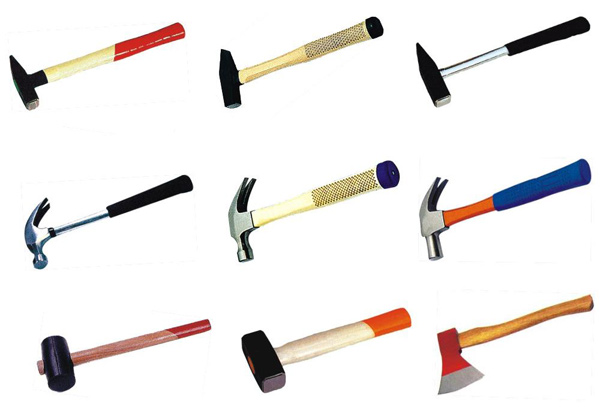
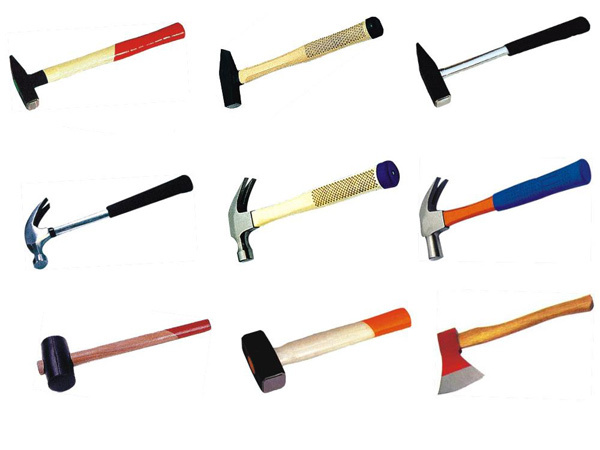
updated hammers

diff --git a/images/README.md b/images/README.md
@@ -1,0 +1,7 @@
+## ImageMagick convert
+
+### Add empty area to the bottom of the image
+
+```
+convert hammers.jpg -extent x450 -gravity north -background white hammers2.jpg
+```
